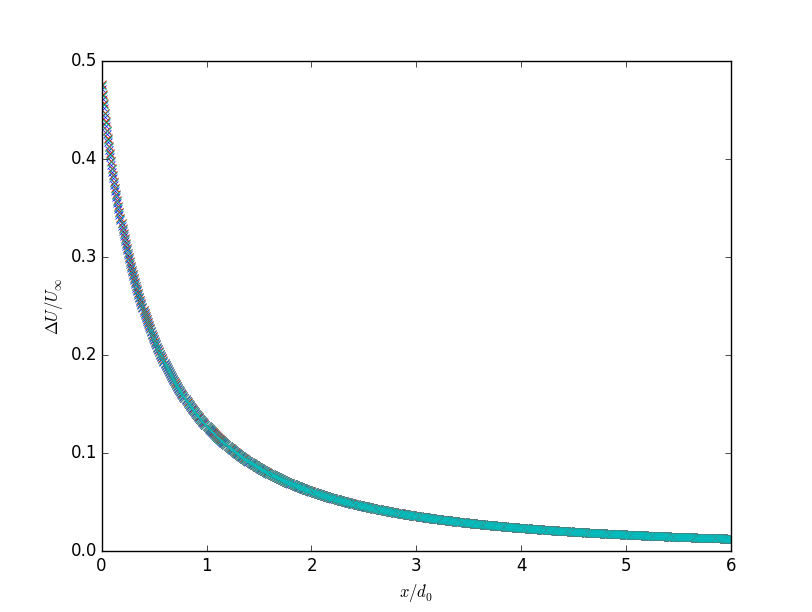
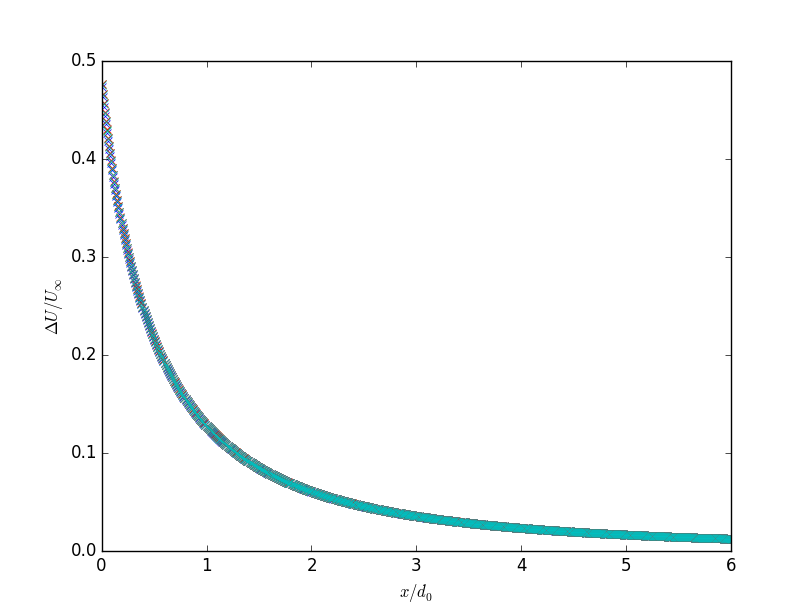
Falta arreglar coordenadas normalizadas

Changed region(s): [[0.1232, 0.1242, 0.2155, 0.5899], [0.2463, 0.683, 0.2771, 0.7451], [0.2155, 0.6209, 0.2463, 0.683]]

diff --git a/src/viejo/Gaussiana.py b/src/viejo/Gaussiana.py
@@ -3,6 +3,8 @@
 # from Modelo import Modelo
 import numpy as np
 from numpy import exp
+from cart2pol import cart2pol
+
 
 # super() lets you avoid referring to the base class explicitly, which can be nice.
 # But the main advantage comes with multiple inheritance, where all sorts of fun
@@ -28,21 +30,27 @@ class Gaussiana(object):
         self.exponente = None
         self.gauss = None
         self.deficit_dividido_U_inf = None
-        self.r = np.arange(1)
-        self.x_n = np.arange(1)
+        self.x_n = None
+        self.y_n = None
+        self.z_n = None
+        self.r = None
+        self.phi = None
+        self.c = None
 
     def play(self):
         self.coordenadas.normalizar(self.case)
         self.x_n = self.coordenadas.x_n
-        y_n = self.coordenadas.y_n
-        z_n = self.coordenadas.z_n
-        self.coordenadas.cart2pol()
-        self.r = self.coordenadas.r
-        phi = self.coordenadas.phi
+        self.y_n = self.coordenadas.y_n
+        self.z_n = self.coordenadas.z_n
+        self.r, self.phi = cart2pol(self.y_n, self.z_n)
         sigma_n = self.k_estrella * self.x_n + self.epsilon
         sigma_n_cuadrado = (sigma_n)**2
         r_cuadrado = self.r**2
-        c = 1 - (1-(self.c_T/(8*sigma_n_cuadrado)))**(1/2)
+        # el problema esta en c = 0
+        #
+        # C = 1 - (1-(C_T/(8*sigma_n_cuadrado)))**(1/2)
+        #
+        self.c = 1 - (1-(self.c_T/(8*sigma_n_cuadrado)))**(0.5)
         self.exponente = np.zeros((len(self.x_n),len(self.r)))
         self.gauss = np.zeros((len(self.x_n),len(self.r)))
         self.deficit_dividido_U_inf = np.zeros((len(self.x_n),len(self.r)))
@@ -50,7 +58,7 @@ class Gaussiana(object):
             for j in range (0,len(self.r)):
                 self.exponente[i,j] = -r_cuadrado[j] / (2 * sigma_n_cuadrado[i])
                 self.gauss[i,j] = exp(self.exponente[i,j])
-                self.deficit_dividido_U_inf[i,j] = c[i] * self.gauss[i,j]
+                self.deficit_dividido_U_inf[i,j] = self.c[i] * self.gauss[i,j]
 
 
 

diff --git a/src/viejo/case_1.py b/src/viejo/case_1.py
@@ -1,4 +1,4 @@
-# coding=utf-8     
+# coding=utf-8
 
 from __future__ import division  # para evitar el problema de la división entera (must occur at the beginning of the file)
 
@@ -7,11 +7,11 @@ import numpy as np # para trabajar con arrays de forma mas eficiente (tipo matla
 # CASE 1
 
 d_0 = 0.15			# diametro de blades?
-z_h = 0.125			# hub height 
-U_hub = 2.2			#  (COMO LO INCLUYO EN LA ECUACION??)  
+z_h = 0.125			# hub height
+U_hub = 2.2			#  (COMO LO INCLUYO EN LA ECUACION??)
 C_T = 0.42			#
-z_0 = 0.00003		# aerodynamic surface roughness (COMO LO INCLUYO EN LA ECUACION??)  
-I_0 = 0.070			# (para z = z_h) ambient streamwise turbulence intensity  (COMO LO INCLUYO EN LA ECUACION??)  
+z_0 = 0.00003		# aerodynamic surface roughness (COMO LO INCLUYO EN LA ECUACION??)
+I_0 = 0.070			# (para z = z_h) ambient streamwise turbulence intensity  (COMO LO INCLUYO EN LA ECUACION??)
 
 
 # coordenadas:
@@ -22,14 +22,22 @@ I_0 = 0.070			# (para z = z_h) ambient streamwise turbulence intensity  (COMO LO
 
 # normalized coordinates
 
-# x_n = x/d_0			
+# x_n = x/d_0
 # y_n = y/d_0
 # z_n = (z-z_h)/d_0
 
 # escribo a dedo:
 
+#
+# x_n = np.arange(0,15,0.01)
+# y_n = np.arange(0,4.5,0.005)
+# z_n = np.arange(0,4.5,0.005)
+# #
+x = np.arange(0,2.25,0.0015)
+y = np.arange(0,0.6,0.00075)
+z = np.arange(0,0.6,0.00075)
 
-x_n = np.arange(0,15,0.01)
-y_n = np.arange(0,4.5,0.005)
-z_n = np.arange(0,4.5,0.005)
-
+x_n = x/d_0
+y_n = y/d_0
+#z_n = (z-z_h)/d_0
+z_n = z/d_0

diff --git a/src/viejo/prueba_total.py b/src/viejo/prueba_total.py
@@ -45,5 +45,37 @@ x_y = { 'x_1': modelo_1.r, 'y_1': modelo_1.gauss[v_0,barrido_r],
 figura_1 = Figura(nombre,x_y,xLabel,yLabel,numero)
 figura_1.show_save()
 
-
 # el save de la figura no esta funcionando
+################################################################################
+
+from Contour import Contour
+#
+# a = modelo_1.deficit_dividido_U_inf.transpose()
+#
+# x_z_a = {'x_1': modelo_1.x_n, 'z_1': modelo_1.r, 'a_1': a}
+#
+# contour_1 = Contour("contour_1",x_z_a,"xLabel","yLabel")
+#
+# contour_1.show()
+
+#########
+
+
+import matplotlib.pyplot as plt # para hacer los gráficos
+
+
+fig = plt.figure()
+plt.xlabel(r'$ x / d_{0} $')
+plt.ylabel('r')
+plt.title('Gaussian Filled Contour Plot')
+cp = plt.contourf(modelo_1.x_n,modelo_1.r,modelo_1.deficit_dividido_U_inf.transpose())
+plt.colorbar(cp)
+plt.show()
+plt.figure()
+
+
+##########
+# print(modelo_1.gauss)
+# print(modelo_1.exponente)
+print(modelo_1.c)
+#print(modelo_1.deficit_dividido_U_inf)

diff --git a/src/viejo/Contour.py b/src/viejo/Contour.py
@@ -9,7 +9,7 @@ class Contour(object):
         self.xLabel = xLabel
         self.yLabel = yLabel
 
-    def graph(self):
+    def show(self):
         plt.xlabel(self.xLabel)
         plt.ylabel(self.yLabel)
         cp = plt.contourf(self.x_z_a['x_1'],self.x_z_a['z_1'],self.x_z_a['a_1'])
@@ -18,7 +18,7 @@ class Contour(object):
         fig = plt.figure()
         plt.close(fig)
 
-    def graph_save(self):
+    def save(self):
         plt.xlabel(self.xLabel)
         plt.ylabel(self.yLabel)
         cp = plt.contourf(self.x_z_a['x_1'],self.x_z_a['z_1'],self.x_z_a['a_1'])
@@ -28,7 +28,7 @@ class Contour(object):
         fig.savefig(direc)
         plt.close(fig)
 
-    def graph_show_save(self):
+    def show_save(self):
         plt.xlabel(self.xLabel)
         plt.ylabel(self.yLabel)
         cp = plt.contourf(self.x_z_a['x_1'],self.x_z_a['z_1'],self.x_z_a['a_1'])

diff --git a/src/viejo/Coordenadas.py b/src/viejo/Coordenadas.py
@@ -17,13 +17,3 @@ class Coordenadas(object):
         self.x_n = self.x/case.d_0
         self.y_n = self.y/case.d_0
         self.z_n = (self.z - case.z_h)/case.d_0
-
-    def cart2pol(self):
-        self.r = np.sqrt(self.y**2 + self.z**2)
-        self.phi = np.arctan2(self.z, self.y)
-
-        #chequear esto! yo hacia car2pol con las coordenadas normalizadas, me parece que eso no tiene sentido
-
-    def pol2cart(self):
-        self.y = self.r * np.cos(self.phi)
-        self.z = self.r * np.sin(self.phi)

diff --git a/src/viejo/gaussiana_1.py b/src/viejo/gaussiana_1.py
@@ -28,6 +28,8 @@ elif l == "4":
 	print("case_4")
 	from case_4 import *
 
+print(len(x_n))
+print(x_n)
 
 # defino variables :
 
@@ -284,6 +286,9 @@ plt.colorbar(cp)
 plt.show()
 plt.figure()
 fig.savefig('figuras/gaussiana_5_conmeshgrid.png')
+
+
+print(C)
 
 
 # faltaría hacerlo en función de z_n. ¿Cómo?

diff --git a/src/viejo/cart2pol.py b/src/viejo/cart2pol.py
@@ -1,0 +1,7 @@
+import numpy as np
+
+def cart2pol(y, z):
+    r = np.sqrt(y**2 + z**2)
+    phi = np.arctan2(z, y)
+    return r, phi
+    #chequear esto! yo hacia car2pol con las coordenadas normalizadas, me parece que eso no tiene sentido

diff --git a/src/viejo/pol2cart.py b/src/viejo/pol2cart.py
@@ -1,0 +1,6 @@
+import numpy as np
+
+def pol2cart(r, phi):
+    y = r * np.cos(phi)
+    z = r * np.sin(phi)
+    return y, z
